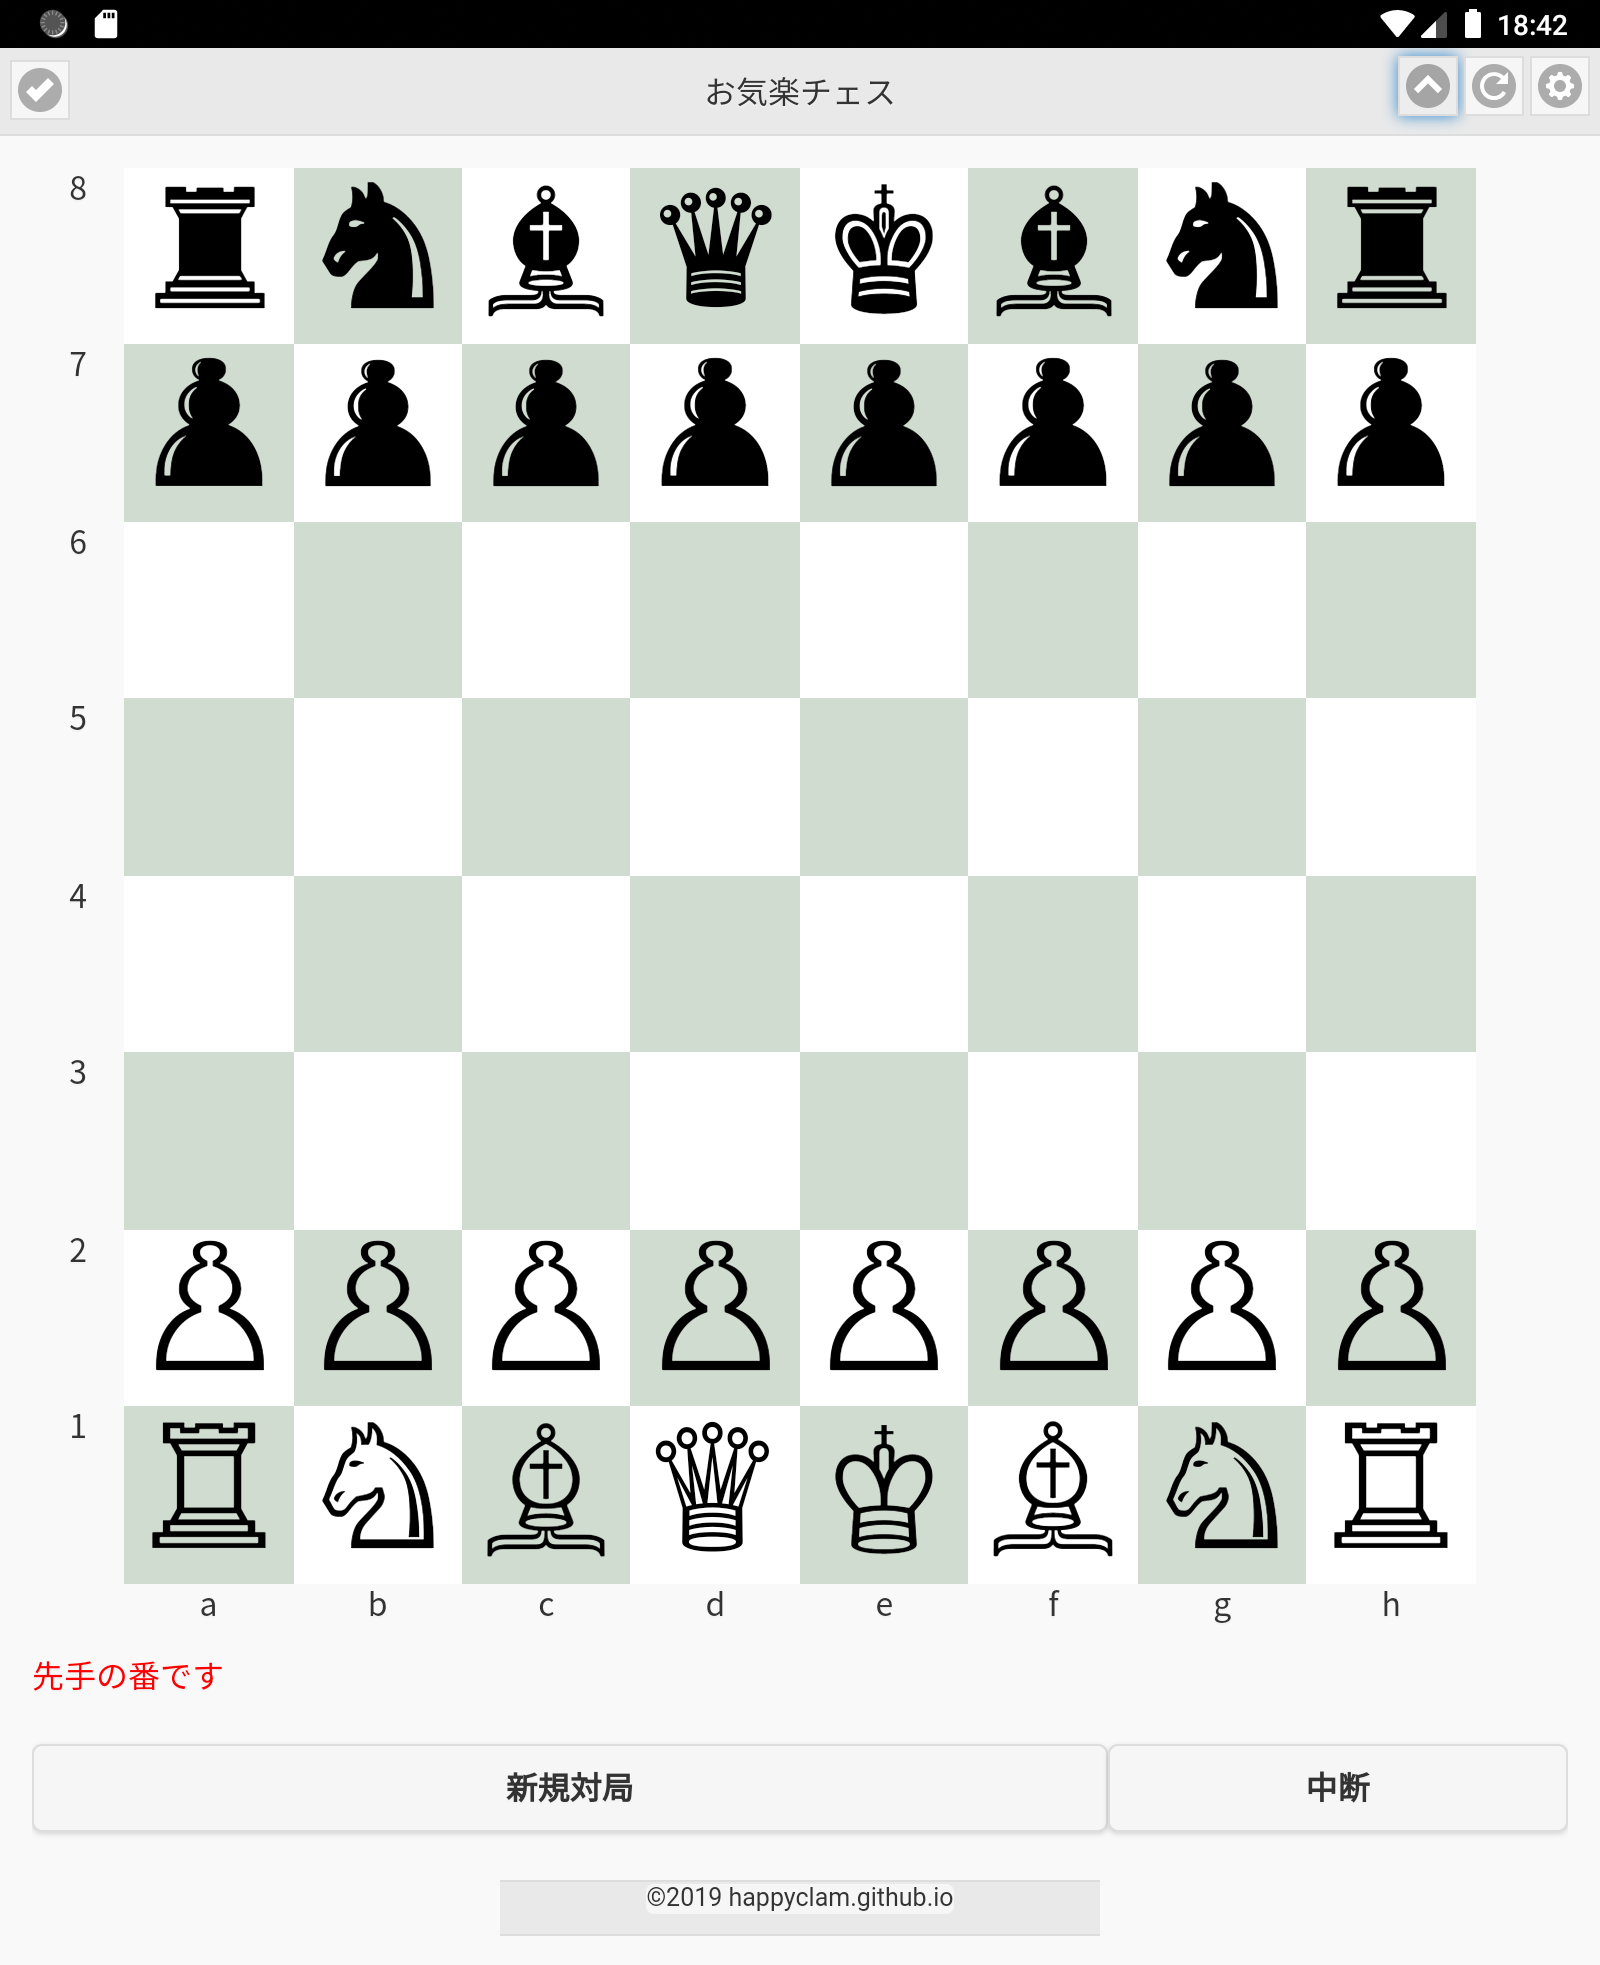
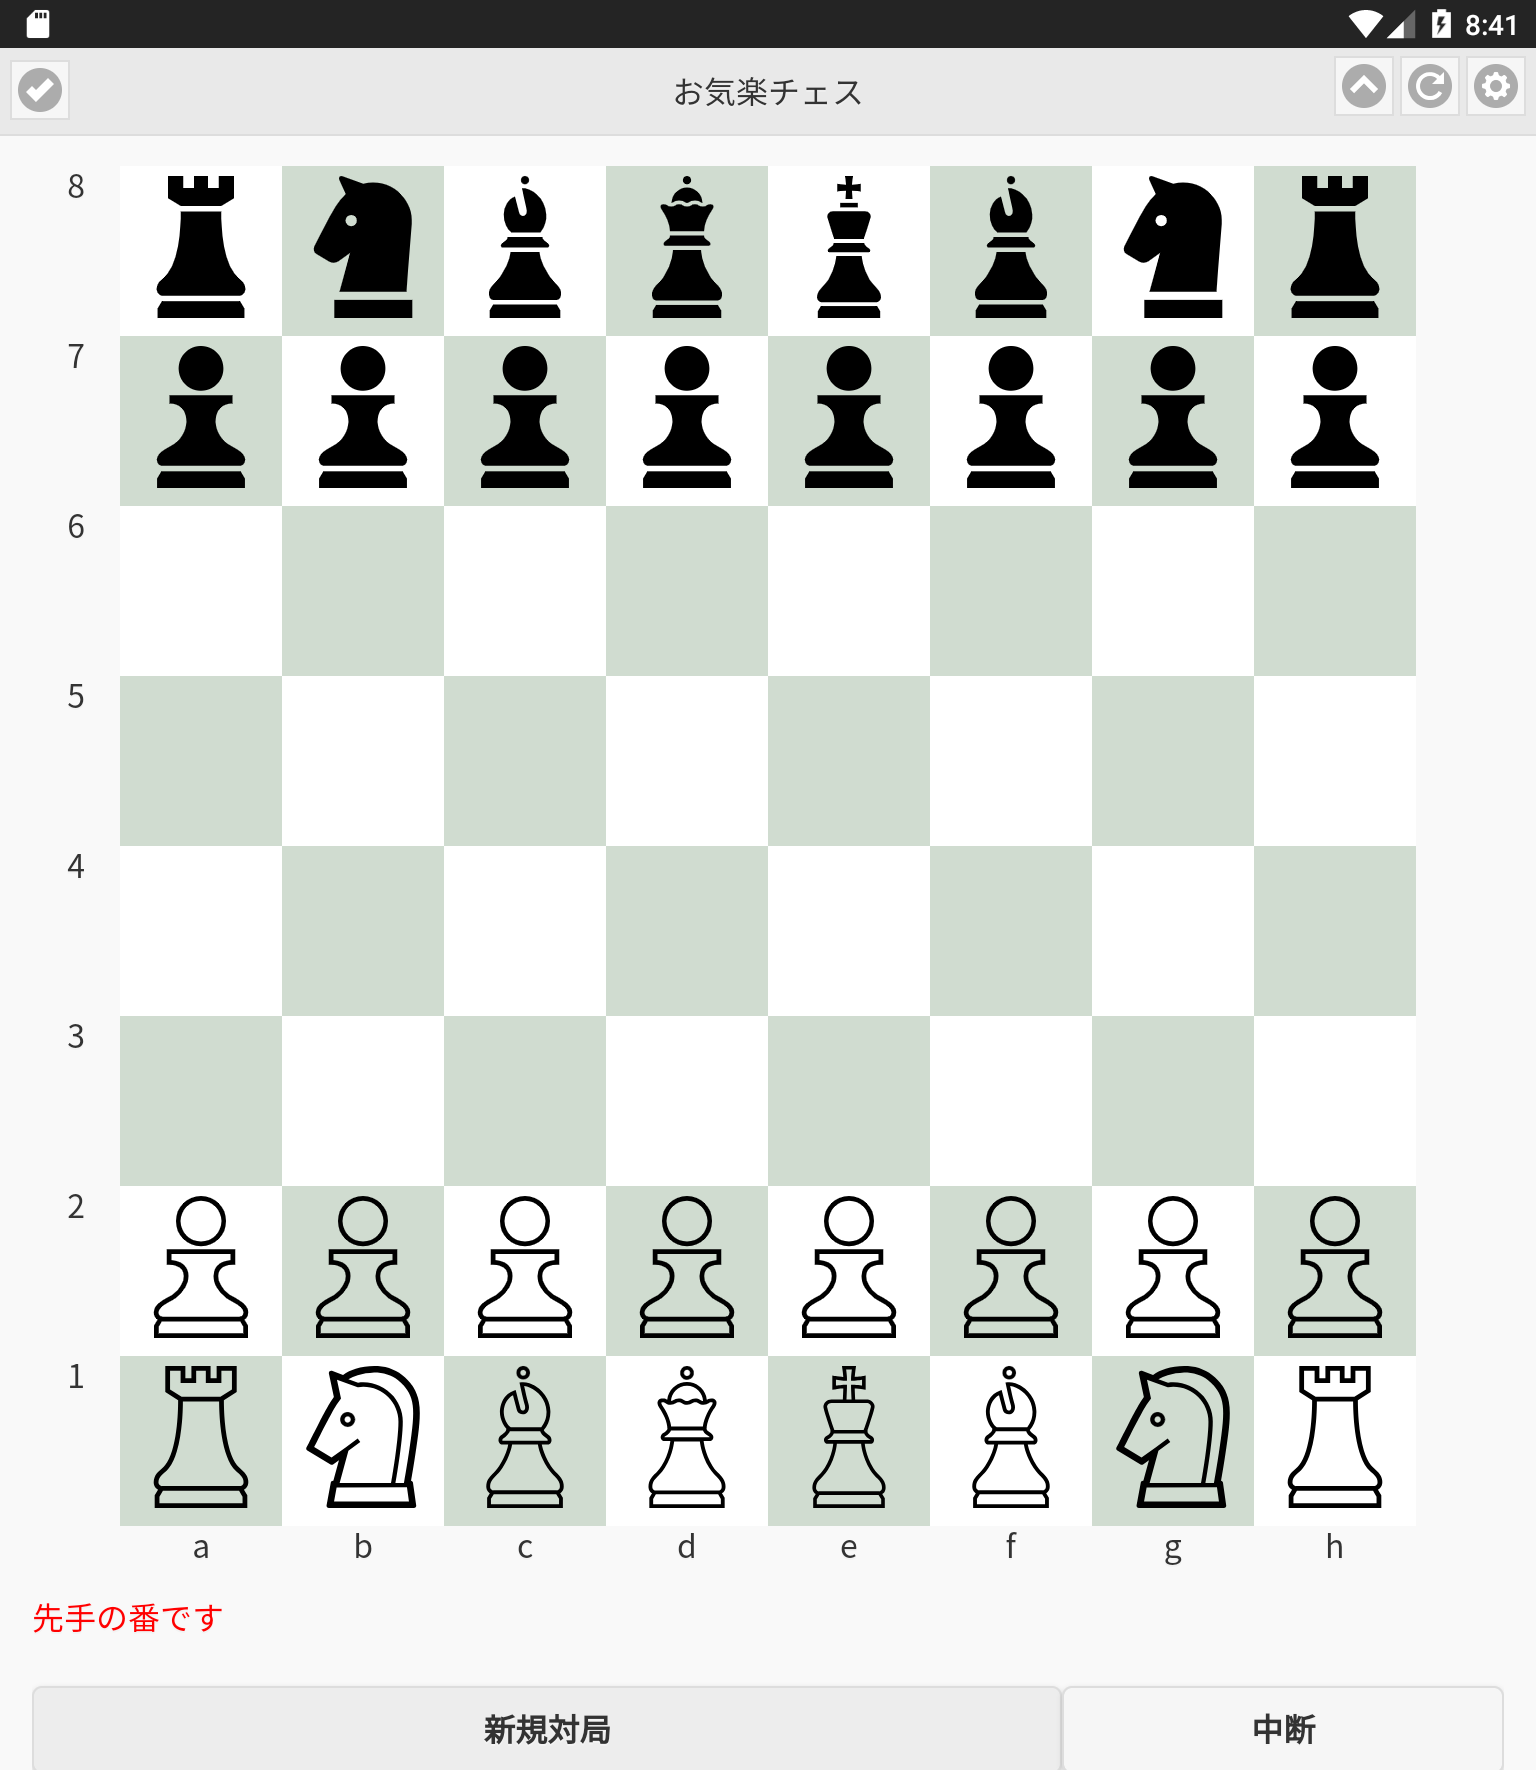
refactor: 新しい駒の盤面画像追加

diff --git a/project/2019-11-16/chessapp.html b/project/2019-11-16/chessapp.html
@@ -255,17 +255,7 @@ MathJax.Hub.Config({
 </div>
 
 <ul>
-  <li>駒の表示にはUnicodeフォントを使用しています。機種によって表示が変わる可能性があります。</li>
-</ul>
-
-<div style="width:320px; margin: 0 auto;">
-
-  <p><a href="/images/cool_pieces.png"><img src="/images/cool_pieces.png" alt="米国製端末例" title="米国製端末例" /></a></p>
-
-</div>
-
-<ul>
-  <li>↑Galaxy S9 - Android 8.0（Samsung）では上のように表示されるようです。</li>
+  <li>駒は二種類から選べます。</li>
 </ul>
 
 <div style="width:320px; margin: 0 auto;">
@@ -274,7 +264,7 @@ MathJax.Hub.Config({
 
 </div>
 
-<p>※同一局面が３回で千日手でゲーム終了としています</p>
+<p>※同一局面が３回で千日手でゲーム終了としています。ＡＩはなるべく千日手を避ける仕様になっていますが、絶対千日手にならないとは言えません。</p>
 
 <ul>
   <li>ゲームを中断して前の局面に戻って再開することも出来ます。</li>
